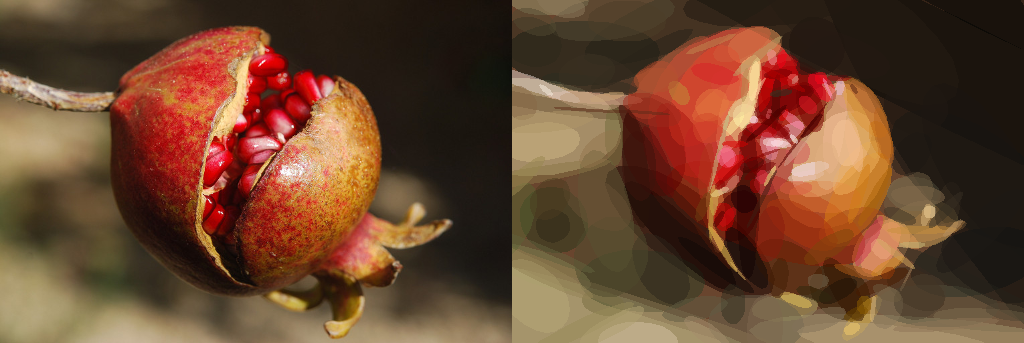
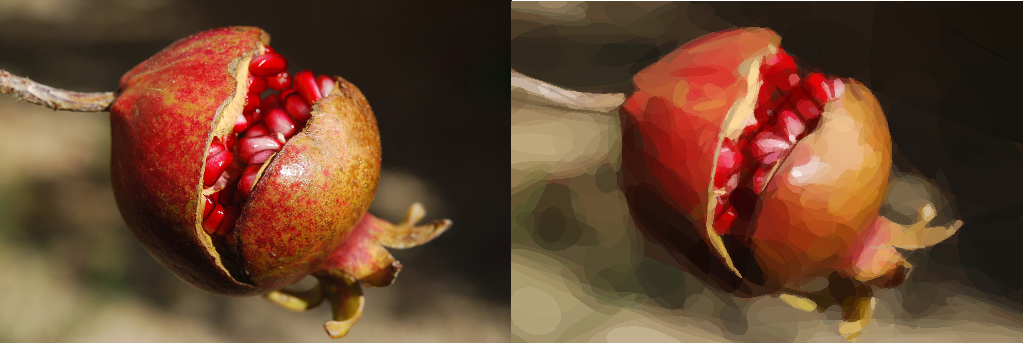
More examples and screenshots

diff --git a/README.md b/README.md
@@ -4,7 +4,7 @@
 [![Travis Geometrize Example Build Status](https://img.shields.io/travis/Tw1ddle/geometrize-lib-example.svg?style=flat-square)](https://travis-ci.org/Tw1ddle/geometrize-lib-example)
 [![AppVeyor Geometrize Example Build Status](https://ci.appveyor.com/api/projects/status/tav5nu3isxvdjkbh?svg=true)](https://ci.appveyor.com/project/Tw1ddle/geometrize-lib-example)
 
-Minimal example demonstrating the [Geometrize library](https://github.com/Tw1ddle/geometrize-lib) used in the image-to-shapes conversion app [Geometrize](http://www.geometrize.co.uk).
+Minimal example of the [Geometrize library](https://github.com/Tw1ddle/geometrize-lib), the library used in the image-to-shapes conversion app [Geometrize](http://www.geometrize.co.uk).
 
 ## Usage
 
@@ -26,8 +26,8 @@ geometrize-lib-example -i sliced_fruit.png -o sliced_fruit_out.png -t circle -s 
 [![Geometrize Fruit Example](https://github.com/Tw1ddle/geometrize-lib-example/blob/master/screenshots/sliced_fruit.png?raw=true "Geometrize Fruit Example")](http://www.geometrize.co.uk)
 
 ```
-# Create an image made of 350 rotated ellipses
-geometrize-lib-example -i splitting_pomegranate.png -o splitting_pomegranate_out.png -t rotated_ellipse -s 350
+# Create an image made of 400 rotated ellipses
+geometrize-lib-example -i pomegranate_splitting.png -o pomegranate_splitting_out.png -t rotated_ellipse -s 400
 ```
 
 [![Geometrize Pomegranate Example](https://github.com/Tw1ddle/geometrize-lib-example/blob/master/screenshots/pomegranate_splitting.png?raw=true "Geometrize Pomegranate Example")](http://www.geometrize.co.uk)
